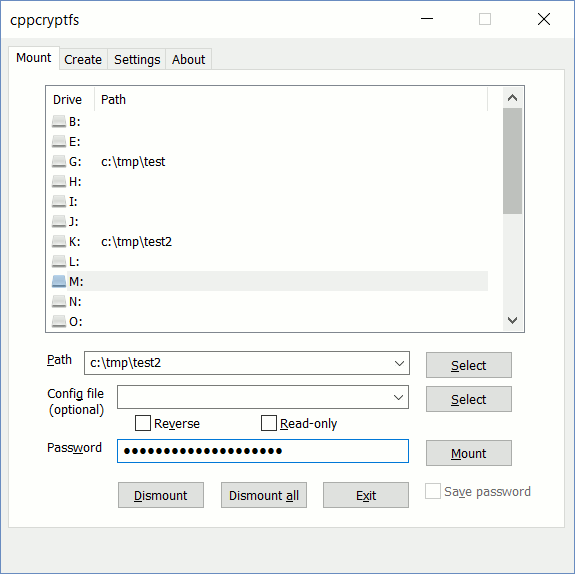
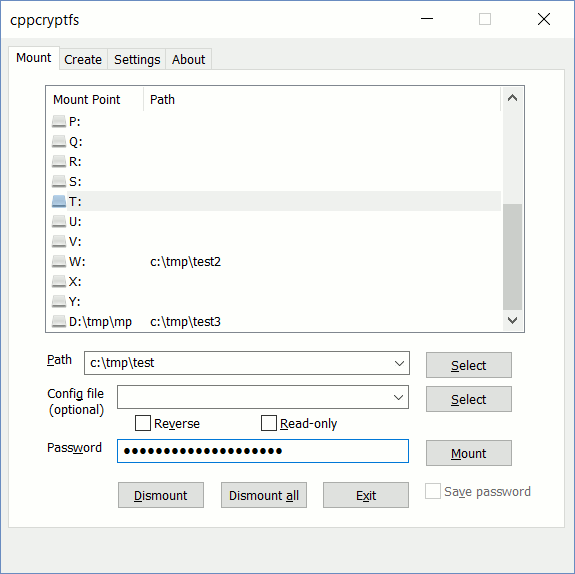
default settings now the same as recommended.  some ui tweaks to prevent unnecssary horizontal scroll bar in mount page.  add documentation about empty directory used for mount point.

diff --git a/cppcryptfs/ui/CryptAboutPropertyPage.cpp b/cppcryptfs/ui/CryptAboutPropertyPage.cpp
@@ -70,10 +70,10 @@ END_MESSAGE_MAP()
 
 static const WCHAR * components[] = {
 	L"cppcryptfs - Copyright (C) 2016-2018 Bailey Brown. All Rights Reserved.",
-	L"OpenSSL - Copyright 1998-2017 The OpenSSL Project Authors. All Rights Reserved.",
+	L"OpenSSL - Copyright (c) 1998-2018 The OpenSSL Project.  All rights reserved.",
 	L"RapidJSON - Copyright (C) 2015 THL A29 Limited, a Tencent company, and Milo Yip. All rights reserved.",
-	L"Dokany (mirror) - Copyright (C) 2015 - 2017 Adrien J., Maxime C.; Copyright (C) 2007 - 2011 Hiroki Asakawa",
-	L"Dokany (library) - Copyright (C) 2015 - 2017 Adrien J., Maxime C.; Copyright (C) 2007 - 2011 Hiroki Asakawa",
+	L"Dokany (mirror) - Copyright (C) 2015 - 2018 Adrien J., Maxime C.; Copyright (C) 2007 - 2011 Hiroki Asakawa",
+	L"Dokany (library) - Copyright (C) 2015 - 2018 Adrien J., Maxime C.; Copyright (C) 2007 - 2011 Hiroki Asakawa",
 	L"100% free Secure Edit control MFC class - Copyright (c) 2003 Dominik Reichl",
 	L"getopt_port - Copyright (c) 2012-2017, Kim Grasman <kim.grasman@gmail.com>. All rights reserved.",
 	L"aes-siv - Copyright (c) 2015 ARKconcepts / Sasha Kotlyar",
@@ -132,7 +132,7 @@ static const WCHAR *licenses[] = {
 	L"  ---------------\r\n"
 	L"\r\n"
 	L"/* ====================================================================\r\n"
-	L" * Copyright (c) 1998-2017 The OpenSSL Project.  All rights reserved.\r\n"
+	L" * Copyright (c) 1998-2018 The OpenSSL Project.  All rights reserved.\r\n"
 	L" *\r\n"
 	L" * Redistribution and use in source and binary forms, with or without\r\n"
 	L" * modification, are permitted provided that the following conditions\r\n"
@@ -312,7 +312,7 @@ static const WCHAR *licenses[] = {
 	L"project url: github.com/dokan-dev/dokany\r\n\r\n"
 	L"cppcryptfs usage: code from the mirror.c sample program from Dokany was used in modifed form in cppcryptfs (in cryptdokan.cpp).\r\n\r\n"
 	L"Dokany mirror.c copyright and license (MIT license):\r\n\r\n"
-	L"Copyright (C) 2015 - 2017 Adrien J. <liryna.stark@gmail.com> and Maxime C. <maxime@islog.com>\r\n"
+	L"Copyright (C) 2015 - 2018 Adrien J. <liryna.stark@gmail.com> and Maxime C. <maxime@islog.com>\r\n"
 	L"Copyright (C) 2007 - 2011 Hiroki Asakawa <info@dokan-dev.net>\r\n"
 	L"\r\n"
 	L"Permission is hereby granted, free of charge, to any person obtaining a copy\r\n"

diff --git a/cppcryptfs/ui/MountPropertyPage.cpp b/cppcryptfs/ui/MountPropertyPage.cpp
@@ -485,9 +485,15 @@ BOOL CMountPropertyPage::OnInitDialog()
 	Style |= LVS_EX_FULLROWSELECT;
 	::SendMessage(pList->m_hWnd, LVM_SETEXTENDEDLISTVIEWSTYLE, 0, Style);
 
-	pList->InsertColumn(DL_INDEX, L"Mount Point", LVCFMT_LEFT, 48);
+	int mountPointColumnWidth = theApp.GetProfileInt(L"MountPoint", L"MountPointColumnWidth", 79);
 
-	pList->InsertColumn(PATH_INDEX, L"Path", LVCFMT_LEFT, 393);
+	if (!IsValidMountPointColumnWidth(mountPointColumnWidth)) {
+		mountPointColumnWidth = 79;
+	}
+
+	pList->InsertColumn(DL_INDEX, L"Mount Point", LVCFMT_LEFT, mountPointColumnWidth);
+
+	pList->InsertColumn(PATH_INDEX, L"Path", LVCFMT_LEFT, 454-mountPointColumnWidth);
 
 	CString lastMountPoint = theApp.GetProfileString(L"MountPoints", L"LastMountPoint", L"");
 
@@ -538,16 +544,6 @@ BOOL CMountPropertyPage::OnInitDialog()
 	}
 
 	pList->SetImageList(&m_imageList, LVSIL_SMALL);
-
-	int mountPointColumnWidth = theApp.GetProfileInt(L"MountPoint", L"MountPointColumnWidth", -1);
-
-	if (IsValidMountPointColumnWidth(mountPointColumnWidth)) {
-		pList->SetColumnWidth(0, mountPointColumnWidth);
-	} else {
-		pList->SetColumnWidth(0, LVSCW_AUTOSIZE_USEHEADER);
-	}
-
-	i = 0;
 
 	for (i = 0; i < mountPoints.GetCount(); i++) {
 	

diff --git a/cppcryptfs/ui/cryptdefaults.h b/cppcryptfs/ui/cryptdefaults.h
@@ -28,16 +28,16 @@ THE SOFTWARE.
 
 #pragma once
 
-#define PER_FILESYSTEM_THREADS_DEFAULT 1
+#define PER_FILESYSTEM_THREADS_DEFAULT 0
 #define PER_FILESYSTEM_THREADS_RECOMMENDED 0
 
-#define BUFFERBLOCKS_DEFAULT 1
+#define BUFFERBLOCKS_DEFAULT 16
 #define BUFFERBLOCKS_RECOMMENDED 16
 
-#define CACHETTL_DEFAULT 1
+#define CACHETTL_DEFAULT 10
 #define CACHETTL_RECOMMENDED 10
 
-#define CASEINSENSITIVE_DEFAULT 0
+#define CASEINSENSITIVE_DEFAULT 1
 #define CASEINSENSITIVE_RECOMMENDED 1
 
 #define MOUNTMANAGER_DEFAULT 0

diff --git a/cppcryptfs/ui/SettingsPropertyPage.cpp b/cppcryptfs/ui/SettingsPropertyPage.cpp
@@ -123,8 +123,6 @@ BOOL CSettingsPropertyPage::SetControls(int nThreads, int bufferblocks, int cach
 	for (i = 0; i < 15; i++) {
 		if (i == 0) {
 			pBox->AddString(L"Dokany default (5)");
-		} else if (i == 1) {
-			pBox->AddString(L"1 (cppcryptfs default)");
 		} else {
 			swprintf_s(buf, L"%d", i);
 			pBox->AddString(buf);

diff --git a/README.md b/README.md
@@ -119,6 +119,10 @@ You can right click on the mounted drive letter in File Explorer, select "Proper
 Then go to the "Mount" tab and select a drive letter and select the folder you
 just created the filesystem in.  Then enter the password and click on the "Mount" button.
 
+You can also right-click in the list of drive letters and select "Add Mount Point".  This will let you add an empty directory to the list of drive letters.  This empty directory, which must be on an NTFS volume, can serve as a mount point in place of a drive letter.  The added mount point will be added to the list below the drive letters.  You can also right click on an added mount point and delete it from the list.  The mount point directories you add are saved in the Windows registry.
+
+Note: Currently, if an empty directory can be used as a mount point only in normal (forward) mode.  See  [issue #22](/../../issues/22) for an explanation.
+
 If you specified a custom path for the config file when you created the filesystem, then you must specify it here also.
 
 If you specified a custom path for the config file, you must also select "reverse" if it is a reverse filesystem.  Otherwise, cppcryptfs will automatically detect if the filesytem should be mounted in forward or reverse mode.
@@ -235,15 +239,11 @@ This setting is not enabled in either the Default or Recommended settings.
 
 **Defaults and Recommended**
 
-There are also two buttons: "Defaults" which changes all settings to the original cppcryptfs defaults, and "Recommended" which sets
-the currently recommended settings.
+Currently, the default and recommended settings are the same.
 
-When "Defaults" is used, then cppcryptfs will behave as it has from the beginning.  These are the safest settings which have
-undergone the most testing.
+You can view the previous default settings here
 
-When "Recommended" is used, then cppcryptfs will use settings that result in improved performance and functionality at the
-expense of possibly running into new bugs.
-
+[Previous default settings screenshot](/screenshots/screenshot_previous_defaults.png?raw=true") 
 
 **Reset Warnings**
 
